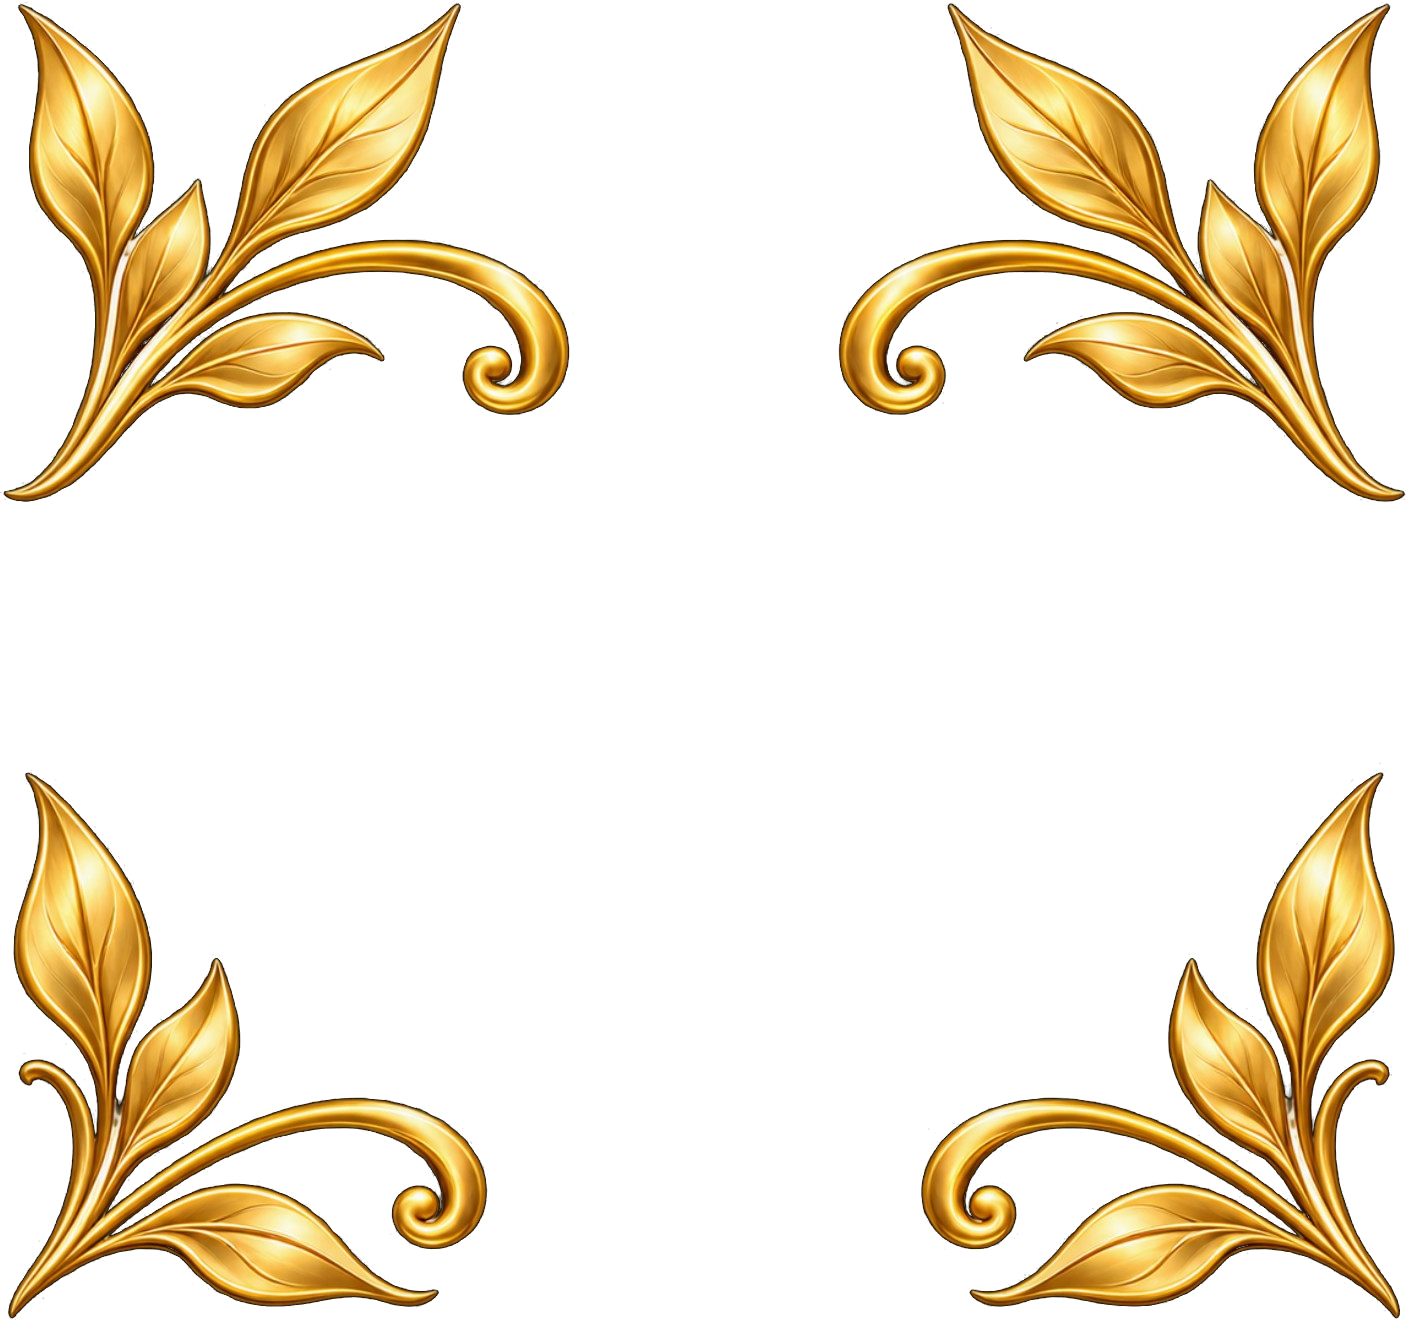
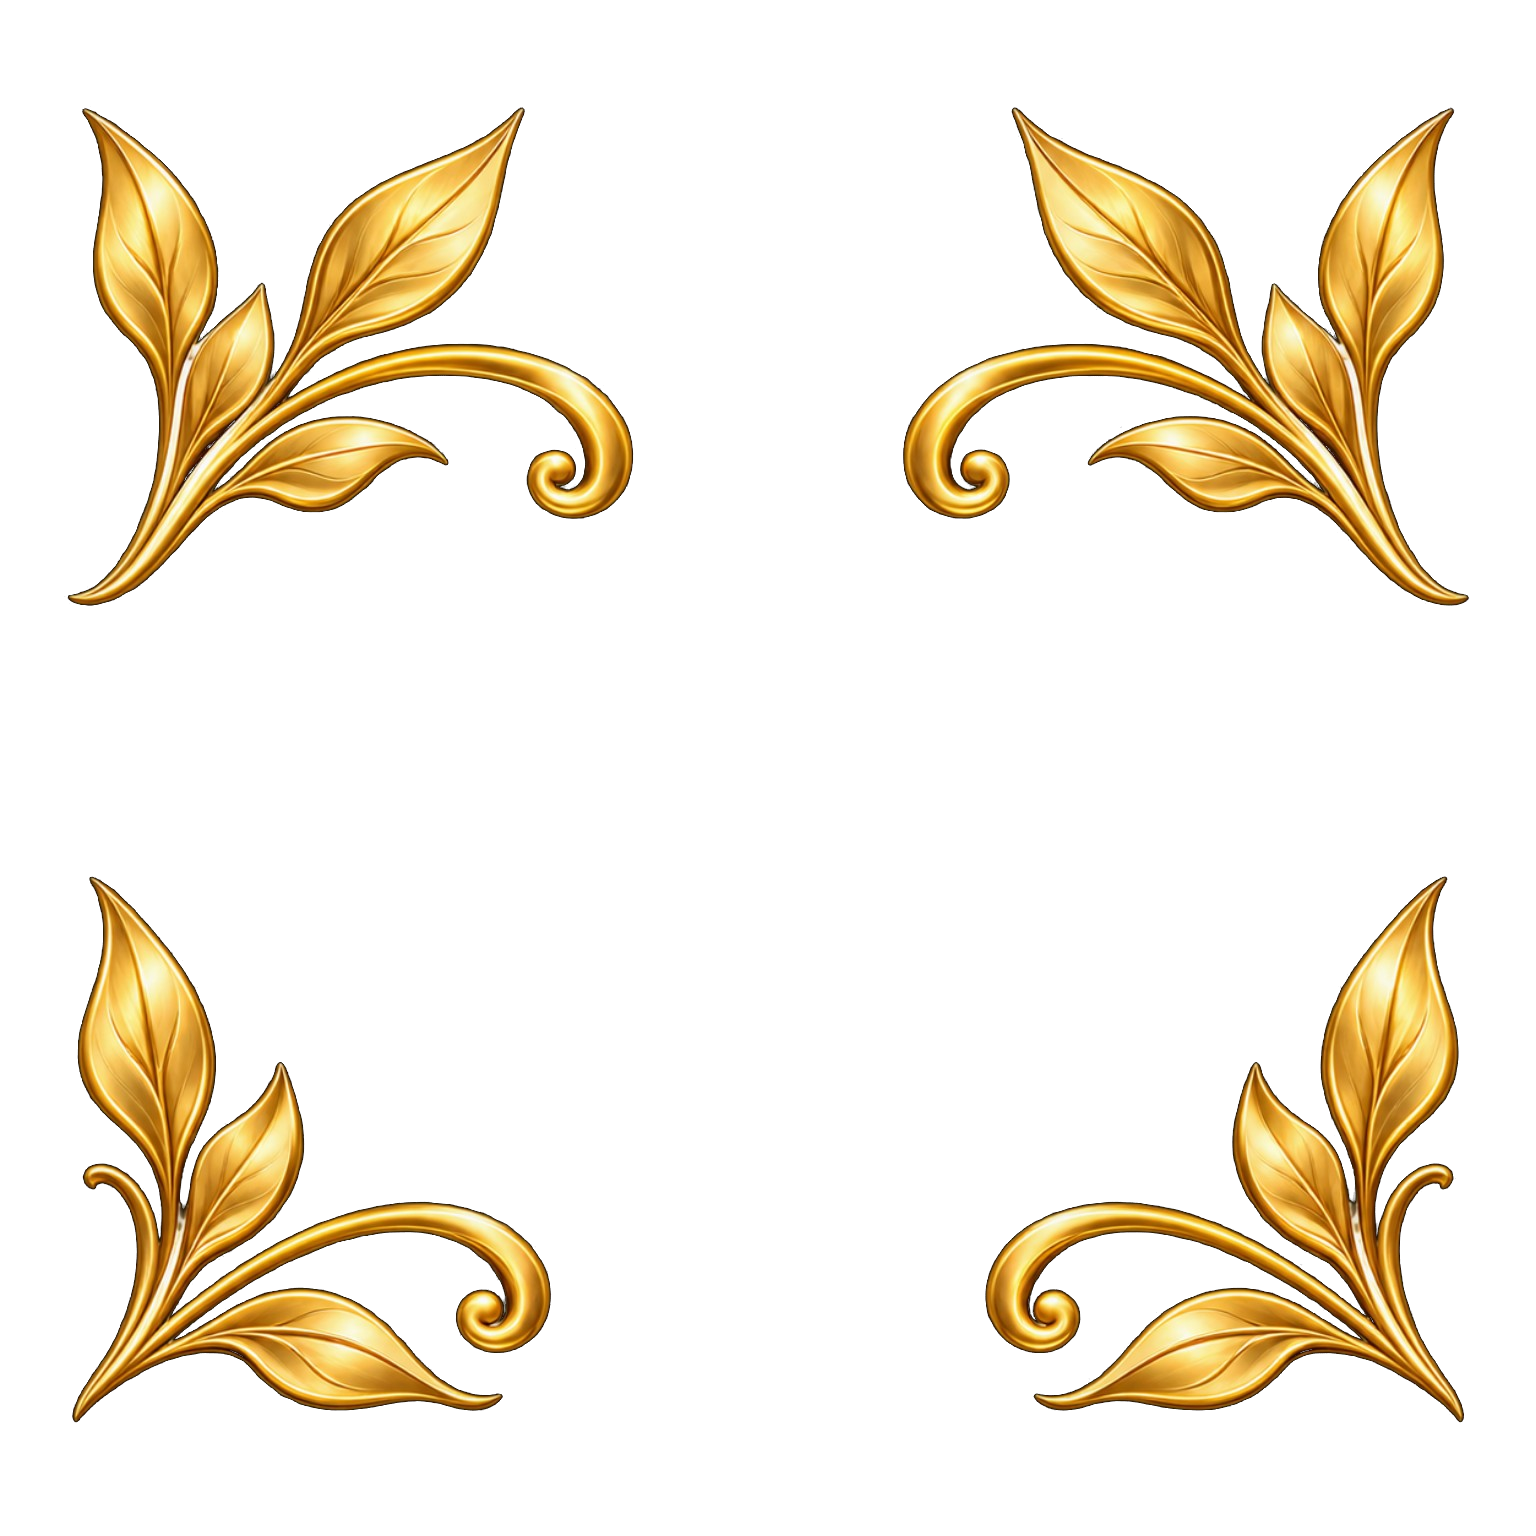
LapiGestion V3 - 1.29 harmonisation fiche lapin

diff --git a/lib/main.dart b/lib/main.dart
@@ -5665,10 +5665,15 @@ class _RabbitPageState extends State<RabbitPage>{
     margin:const EdgeInsets.only(bottom:8),
     padding:const EdgeInsets.fromLTRB(12,10,10,10),
     decoration:BoxDecoration(
-      color:rabbitOrganizing?const Color(0xFFE8F3EC):premiumCard,
+      color:rabbitOrganizing?const Color(0xFFF5F8F2):premiumCard,
       borderRadius:BorderRadius.circular(18),
-      border:Border.all(color:rabbitOrganizing?gold:softGoldLine,width:rabbitOrganizing?1.15:.9),
-      boxShadow:[BoxShadow(color: Colors.black.withValues(alpha:.03), blurRadius: 12, offset: const Offset(0, 5))],
+      border:Border.all(color:rabbitOrganizing?gold:softGoldLine,width:rabbitOrganizing?1.15:1.0),
+      boxShadow:[BoxShadow(color:Colors.black.withValues(alpha:.03),blurRadius:12,offset:const Offset(0,5))],
+      image:const DecorationImage(
+        image:AssetImage('assets/images/lapigestion_gold_corners.png'),
+        fit:BoxFit.fill,
+        opacity:.085,
+      ),
     ),
     child:Row(children:[
       Container(
@@ -5752,10 +5757,15 @@ class _RabbitPageState extends State<RabbitPage>{
 
     final photoCard=Container(
       decoration:BoxDecoration(
-        gradient:const LinearGradient(colors:[premiumCard, Color(0xFFFFFCF4)], begin: Alignment.topLeft, end: Alignment.bottomRight),
-        borderRadius:BorderRadius.circular(14),
-        border:Border.all(color:lineSoft),
-        boxShadow:[BoxShadow(color: Colors.black.withValues(alpha:.04), blurRadius: 14, offset: const Offset(0, 6))],
+        gradient:const LinearGradient(colors:[premiumCard, Color(0xFFFFFCF4)], begin:Alignment.topLeft, end:Alignment.bottomRight),
+        borderRadius:BorderRadius.circular(18),
+        border:Border.all(color:softGoldLine,width:1.05),
+        boxShadow:[BoxShadow(color:Colors.black.withValues(alpha:.04),blurRadius:14,offset:const Offset(0,6))],
+        image:const DecorationImage(
+          image:AssetImage('assets/images/lapigestion_gold_corners.png'),
+          fit:BoxFit.fill,
+          opacity:.10,
+        ),
       ),
       child:Padding(
         padding:const EdgeInsets.all(14),
@@ -5868,7 +5878,7 @@ class _RabbitPageState extends State<RabbitPage>{
       ),
       body:Scenic(compact:true,child:SafeArea(child:CustomScrollView(slivers:[
         SliverAppBar(
-          backgroundColor:lapiGreenDark,
+          backgroundColor:Colors.transparent,
           foregroundColor:Colors.white,
           surfaceTintColor:Colors.transparent,
           elevation:0,
@@ -6025,10 +6035,15 @@ class _RabbitPageState extends State<RabbitPage>{
     margin:const EdgeInsets.only(bottom:8),
     padding:const EdgeInsets.symmetric(horizontal:13,vertical:12),
     decoration:BoxDecoration(
-      gradient:const LinearGradient(colors:[Color(0xFFF4FAF5),Color(0xFFF8F3E8)]),
+      gradient:const LinearGradient(colors:[premiumCard,Color(0xFFFFFCF4)],begin:Alignment.topLeft,end:Alignment.bottomRight),
       borderRadius:BorderRadius.circular(18),
-      border:Border.all(color:gold.withValues(alpha:.30)),
-      boxShadow:[BoxShadow(color: Colors.black.withValues(alpha:.03), blurRadius: 12, offset: const Offset(0, 5))],
+      border:Border.all(color:softGoldLine,width:1.0),
+      boxShadow:[BoxShadow(color:Colors.black.withValues(alpha:.03),blurRadius:12,offset:const Offset(0,5))],
+      image:const DecorationImage(
+        image:AssetImage('assets/images/lapigestion_gold_corners.png'),
+        fit:BoxFit.fill,
+        opacity:.09,
+      ),
     ),
     child:Row(children:[
       Icon(appMode=='Éleveur'?Icons.home_work_outlined:Icons.favorite_outline,color:lapiGreenDark),
@@ -6842,10 +6857,7 @@ class _RabbitPageState extends State<RabbitPage>{
         const SizedBox(height:11),
         Container(
           padding:const EdgeInsets.symmetric(horizontal:12,vertical:9),
-          decoration:BoxDecoration(
-            gradient:const LinearGradient(colors:[heroGreen,heroGreen2]),
-            borderRadius:BorderRadius.circular(15),
-          ),
+          decoration:premiumMarbleDecoration(radius:15,strong:true),
           child:Row(children:[
             const Icon(Icons.insights,color:gold,size:20),
             const SizedBox(width:8),
